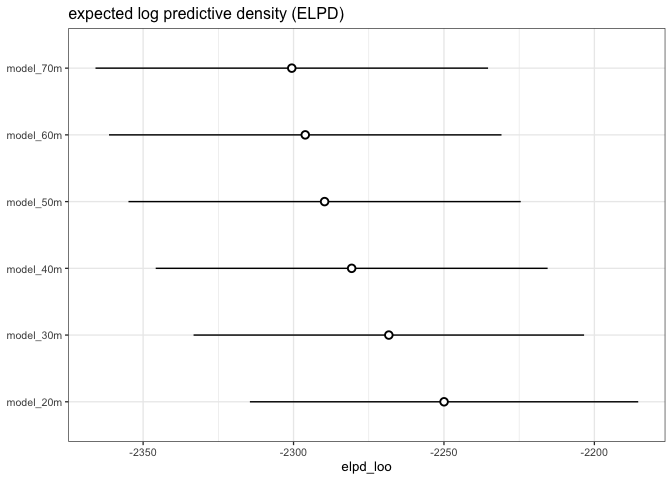
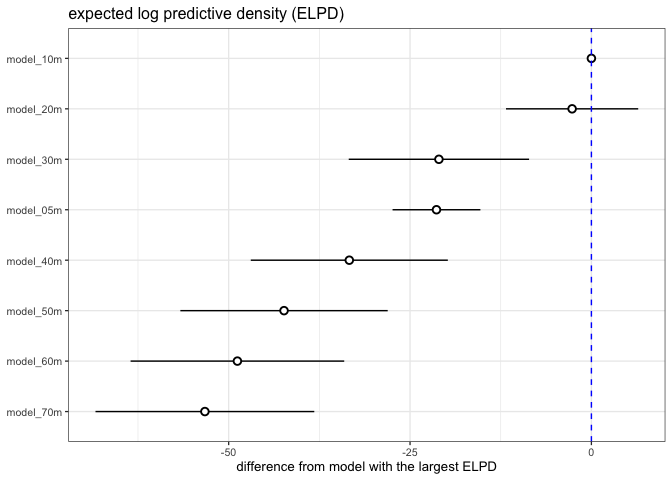
add 5m and 10m models to comparison

diff --git a/code/exploration/12_testing-alpha-values.md b/code/exploration/12_testing-alpha-values.md
@@ -1,7 +1,7 @@
 Testing different values of alpha
 ================
 Eleanor Jackson
-10 June, 2022
+04 July, 2022
 
 In calculating Hanski’s connectivity index we had to include a measure
 of the hypothesised dispersal ability of host-specific enemies
@@ -22,9 +22,13 @@ arbitrary.*
 Lets do 20m, 30m, 40m, 50m, 60m, 70m. So alpha = 0.05, 0.033, 0.025,
 0.016, 0.014.
 
+*Edited to add 5m and 10m*
+
 ## Compare the predictive accuracy of the models using LOO-CV
 
 ``` r
+model_05m <- readRDS(here::here("output", "models", "zoib_capsules_05m.rds"))
+model_10m <- readRDS(here::here("output", "models", "zoib_capsules_10m.rds"))
 model_20m <- readRDS(here::here("output", "models", "zoib_capsules_20m.rds"))
 model_30m <- readRDS(here::here("output", "models", "zoib_capsules_30m.rds"))
 model_40m <- readRDS(here::here("output", "models", "zoib_capsules_40m.rds"))
@@ -43,39 +47,81 @@ options(mc.cores = 3)
 
 ## Compare the predictive accuracy of the models using Leave-One-Out Cross Validation
 
+Leave-one-out cross-validation (LOO-CV) is a popular method for
+comparing Bayesian models based on their estimated predictive
+performance on new/unseen data.
+
+Expected log predictive density (ELPD): If new observations are
+well-accounted by the posterior predictive distribution, then the
+density of the posterior predictive distribution is high and so is its
+logarithm. So higher ELPD = better predictive performance.
+
 ``` r
-comp <- loo_compare(model_20m, model_30m, model_40m, model_50m, model_60m, model_70m)
+comp <- loo_compare(model_05m, model_10m, model_20m, model_30m, 
+                    model_40m, model_50m, model_60m, model_70m)
 
 print(comp, digits = 3)
 ```
 
     ##           elpd_diff se_diff
-    ## model_20m   0.000     0.000
-    ## model_30m -18.362     4.619
-    ## model_40m -30.714     6.960
-    ## model_50m -39.711     8.613
-    ## model_60m -46.138     9.674
-    ## model_70m -50.620    10.494
+    ## model_10m   0.000     0.000
+    ## model_20m  -2.658     9.113
+    ## model_30m -21.021    12.430
+    ## model_05m -21.356     6.054
+    ## model_40m -33.372    13.582
+    ## model_50m -42.370    14.290
+    ## model_60m -48.797    14.725
+    ## model_70m -53.279    15.080
 
 ``` r
 comp %>% 
   data.frame() %>% 
   rownames_to_column(var = "model_name") %>% 
-  ggplot(aes(x    = model_name, 
-             y    = elpd_loo, 
-             ymin = elpd_loo - se_elpd_loo, 
-             ymax = elpd_loo + se_elpd_loo)) +
+  ggplot(aes(x    = reorder(model_name, elpd_diff), 
+             y    = elpd_diff, 
+             ymin = elpd_diff - se_diff, 
+             ymax = elpd_diff + se_diff)) +
   geom_pointrange(shape = 21, fill = "white") +
   coord_flip() +
-  labs(x = NULL, title = "expected log predictive density (ELPD)") 
+  geom_hline(yintercept = 0, colour = "blue", linetype = 2) +
+  labs(x = NULL, y = "difference from model with the largest ELPD", 
+       title = "expected log predictive density (ELPD)") 
 ```
 
 ![](figures/12_testing-alpha-values/loo-compare-1.png)<!-- -->
 
+In the [loo package
+documentation](https://mc-stan.org/loo/articles/online-only/faq.html#how-to-use-cross-validation-for-model-selection-)
+they say:
+
+“If elpd difference (`elpd_diff` in loo package) is less than 4, the
+difference is small [(Sivula, Magnusson and Vehtari,
+2020)](https://doi.org/10.48550/arXiv.2008.10296)). If elpd difference
+(`elpd_diff` in loo package) is larger than 4, then compare that
+difference to standard error of `elpd_diff` (provided e.g. by loo
+package) [(Sivula, Magnusson and Vehtari,
+2020)](https://doi.org/10.48550/arXiv.2008.10296).”
+
+The `elpd_diff` between `model_10m` and `model_20m` is -2.658, this is
+less than 4 so we can say that the difference in predictive accuracy
+between these two models is negligible. But, the difference between our
+original model (`model_50m`) and `model_10m` is -42.370 and the standard
+error of `elpd_diff`, (`se_diff`) doesn’t overlap. I think this means
+that `model_10m` and `model_20m` have better predictive accuracy than
+`model_50m`.
+
+A 10 m dispersal distance is lower than we predicted, but we are
+modelling the realised dispersal distance rather than the potential
+dispersal distance. In a dense forest, perhaps a mean of 10 m is
+typical?
+
 ## Compare estimates
 
+Has changing alpha changed the results of our model?
+
 ``` r
-tibble(model = c("model_20m", "model_30m", "model_40m", "model_50m", "model_60m", "model_70m")) %>% 
+tibble(model = c("model_05m", "model_10m", "model_20m", "model_30m", 
+                 "model_40m", "model_50m", "model_60m", "model_70m")) %>% 
   mutate(fit   = purrr::map(model, get)) %>% 
   mutate(tidy  = purrr::map(fit, tidy)) %>% 
   unnest(tidy) %>% 
@@ -84,25 +130,27 @@ tibble(model = c("model_20m", "model_30m", "model_40m", "model_50m", "model_60m"
 my_coef_tab
 ```
 
-    ## # A tibble: 24 × 10
+    ## # A tibble: 32 × 10
     ##    model     fit       effect component group term   estimate std.error conf.low
     ##    <chr>     <list>    <chr>  <chr>     <chr> <chr>     <dbl>     <dbl>    <dbl>
-    ##  1 model_20m <brmsfit> fixed  cond      <NA>  conne…  0.0297     0.0549  -0.0775
-    ##  2 model_20m <brmsfit> fixed  cond      <NA>  phi_c…  0.0108     0.0841  -0.169 
-    ##  3 model_20m <brmsfit> fixed  cond      <NA>  zoi_c… -0.560      0.117   -0.816 
-    ##  4 model_20m <brmsfit> fixed  cond      <NA>  coi_c…  0.678      0.240    0.217 
-    ##  5 model_30m <brmsfit> fixed  cond      <NA>  conne…  0.0461     0.0620  -0.0779
-    ##  6 model_30m <brmsfit> fixed  cond      <NA>  phi_c… -0.00162    0.108   -0.237 
-    ##  7 model_30m <brmsfit> fixed  cond      <NA>  zoi_c… -0.609      0.154   -0.937 
-    ##  8 model_30m <brmsfit> fixed  cond      <NA>  coi_c…  0.761      0.312    0.211 
-    ##  9 model_40m <brmsfit> fixed  cond      <NA>  conne…  0.0610     0.0721  -0.0859
-    ## 10 model_40m <brmsfit> fixed  cond      <NA>  phi_c… -0.00811    0.131   -0.288 
-    ## # … with 14 more rows, and 1 more variable: conf.high <dbl>
+    ##  1 model_05m <brmsfit> fixed  cond      <NA>  conne…   0.0279    0.0422  -0.0588
+    ##  2 model_05m <brmsfit> fixed  cond      <NA>  phi_c…   0.0399    0.0458  -0.0373
+    ##  3 model_05m <brmsfit> fixed  cond      <NA>  zoi_c…  -0.365     0.0832  -0.559 
+    ##  4 model_05m <brmsfit> fixed  cond      <NA>  coi_c…   0.596     0.234    0.144 
+    ##  5 model_10m <brmsfit> fixed  cond      <NA>  conne…   0.0182    0.0471  -0.0743
+    ##  6 model_10m <brmsfit> fixed  cond      <NA>  phi_c…   0.0335    0.0544  -0.0646
+    ##  7 model_10m <brmsfit> fixed  cond      <NA>  zoi_c…  -0.454     0.0787  -0.622 
+    ##  8 model_10m <brmsfit> fixed  cond      <NA>  coi_c…   0.551     0.174    0.214 
+    ##  9 model_20m <brmsfit> fixed  cond      <NA>  conne…   0.0297    0.0549  -0.0775
+    ## 10 model_20m <brmsfit> fixed  cond      <NA>  phi_c…   0.0108    0.0841  -0.169 
+    ## # … with 22 more rows, and 1 more variable: conf.high <dbl>
 
 ``` r
 my_coef_tab %>% 
-  mutate(term = recode(term, connectivity_pred_sc = "mu", coi_connectivity_pred_sc = "coi",
-                             zoi_connectivity_pred_sc = "zoi", phi_connectivity_pred_sc = "phi")) %>% 
+  mutate(term = recode(term, connectivity_pred_sc = "mu", 
+                       coi_connectivity_pred_sc = "coi",
+                       zoi_connectivity_pred_sc = "zoi", 
+                       phi_connectivity_pred_sc = "phi")) %>% 
   ggplot(aes(x = model, y = estimate, ymin = conf.low, ymax = conf.high)) +
   geom_pointrange(shape = 21, fill = "white") +
   labs(x = NULL,
@@ -114,3 +162,6 @@ my_coef_tab %>%
 ```
 
 ![](figures/12_testing-alpha-values/estimate-compare-1.png)<!-- -->
+
+Confidence intervals are all overlapping - no real change in the model’s
+parameter estimates.
